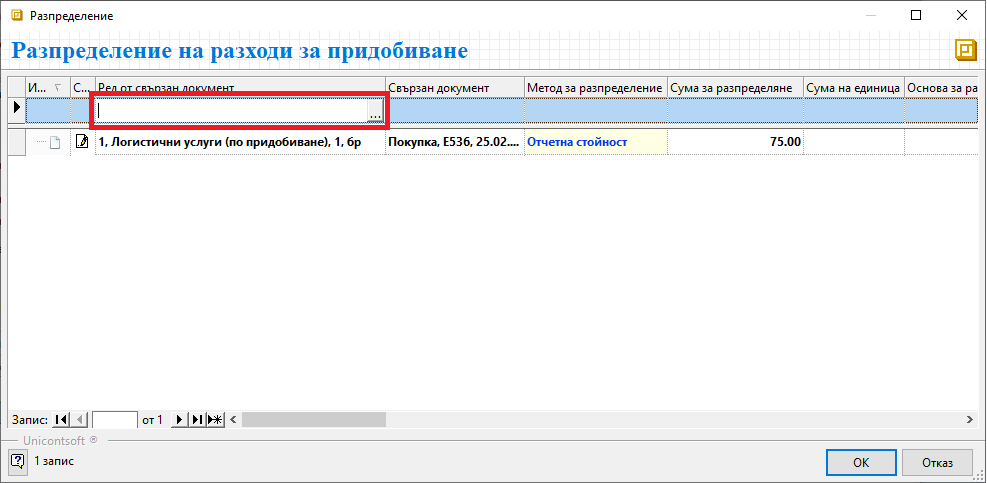
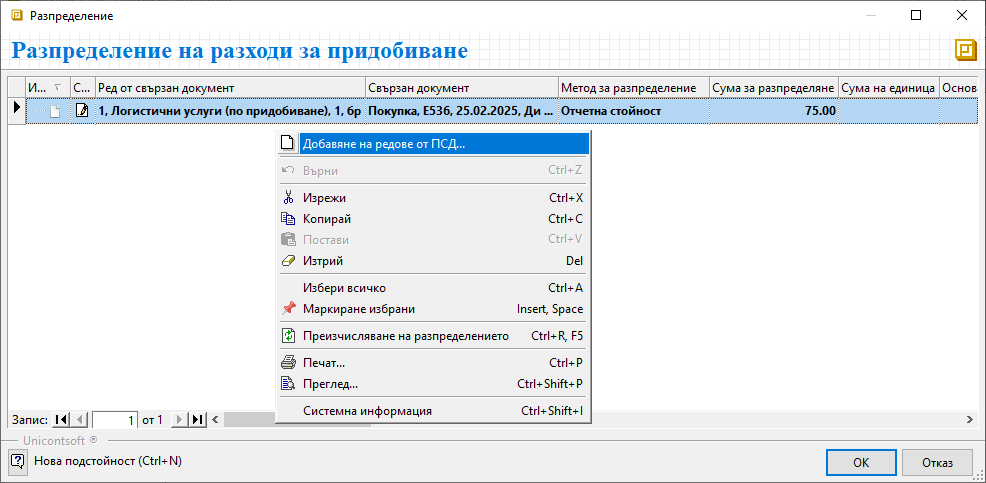
Ръководство за потребителя - актуализиране на Разпеределяне на разходи за придобиване

diff --git a/manual/002-docs/002-trade-system/001-orders-sales-purchase-documents/009-purchases-transport-expenses.md b/manual/002-docs/002-trade-system/001-orders-sales-purchase-documents/009-purchases-transport-expenses.md
@@ -2,7 +2,7 @@
 [Нагоре](000-index)
 ```
 
-# Разпределяне на разходи при покупка
+# Разпределяне на разходи за придобиване
 
 Системата разполага с инструмент за разпределяне на разходи по покупки (за транспорт, за опаковка и др.) и следене на реалната себестойност на продукти и материали.
 
@@ -18,20 +18,22 @@
 ![](909-purchases-transport-expenses1.png){ class=align-center }
 
 4) На този етап форма **Разпределение на разходи за придобиване** съдържа единствено ред с разходите за разпределяне от текущата покупка.  
+С десен бутон върху реда се избира **Добавяне на редове от ПСД**.  
+Отваря се форма за избор **Складови документи**, чрез която трябва да се добавят продуктите, върху чиято стойност се разпределя сумата на разходите.   
 
 > Сума на разходите за разпределяне е винаги без ДДС.
 
-В колона **Ред от свързан документ** трябва да се добави списък с продукти, върху чиято стойност се разпределя сумата на разходите.   
-
 ![](909-purchases-transport-expenses2.png){ class=align-center }
 
-- **Ред от свързан документ** - от реда за нов запис в това поле се отварят списъци със складови документи и документи за покупка;  
+Отварят се списъци със складови документи и документи за покупка.  
 По избор се работи в един от двата списъка.  
 Трябва да се посочи или документ за покупката на стоки, или приходният складов документ, към който се отнасят текущите разходи.  
     - **Напред** - маркира се един или няколко документа **ПСД**/**Покупка** и с бутон **Напред** се продължава към следваща стъпка;  
     - **Избор** - маркира се един, няколко или всички продукти, върху които да се разпределят разходите и бутон **Избор** ги добавя в списъка на формата за разпределение;    
 
 ![](909-purchases-transport-expenses3.png){ class=align-center }
+
+- **Ред от свързан документ** -  по редовете в колоната се виждат всички разходи по придобиване и избраните продукти, върху които те ще се разпределят;  
 
 - **Свързан документ** - полетата в тази колона се обзавеждат автоматично с тип, номер и дата на документ, в който участва продуктът на текущия ред;  
 
